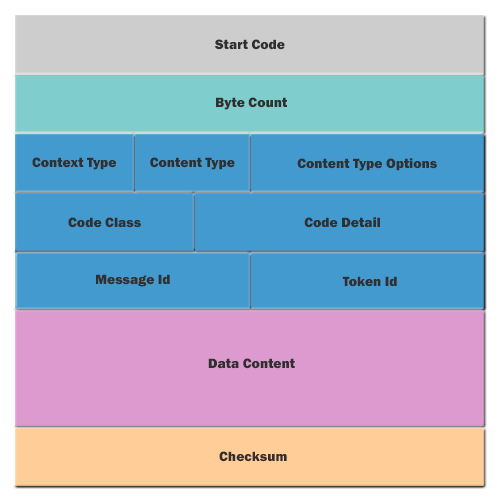
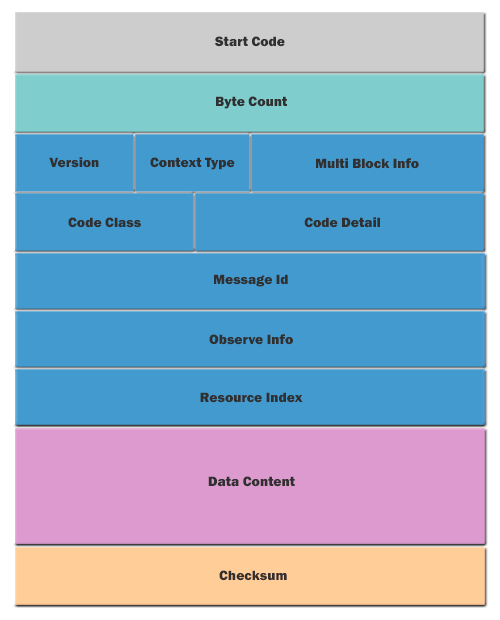
Redefined SMoS PDU

Changed region(s): [[0.03, 0.0599, 0.99, 0.988], [0.03, 0.0, 0.99, 0.0299]]

diff --git a/smos_defined.md b/smos_defined.md
@@ -8,82 +8,104 @@
 
 ###### Start Code
   * Every message begins with a colon (ASCII Hex value $3A)
+  * Byte index = 0
+  * 1 byte
 
 ###### Byte Count
-  * A 2 digit value (1 byte), counting the actual data bytes in the message.
+  * Count of payload bytes in the message
+  * Byte index = 1
+  * 1 byte
+
+###### Version
+  * Protocol version
+  * Currently always set to 1
+  * Byte index = 2
+  * Two MSB bits
 
 ###### Context Type
-* Two MSB bits of the first byte.
-* The values is defined as follow:
-  + Confirmable (0x0)
-  + Non Confirmable (0x1)
-  + Acknowledgement (0x2)
-  + Reset (0x3)
+  * The values is defined as follow:
+    + Confirmable (0x0)
+    + Non Confirmable (0x1)
+    + Acknowledgement (0x2)
+    + Reset (0x3)
+  * Byte index = 2
+  * Two bits after Version bits
 
-###### Content Type
-* Two bits following Context Type.
-* The values is defined as follow:
-  + Generic content (0x0)
-  + Bluetooth GATT content (0x1)
-  + Reserved (0x2)
-  + Reserved (0x3)
-
-###### Content Type Options
-* Four LSB bits of the first byte.
-* It's values are determined by the Content Type.
+###### Multi Block Info
+  * Indicating if message is last block of multi block message 
+  * Byte index = 2
+  * Four LSB bits
+  * First (MSB) bit of this field indicates last block flag
+  * Remaining 3 bits indicating block sequence index
+  * If last block flag is set and remaining bits are 0, indicates single block message
 
 ###### Code Class
-* Three MSB bits of the second byte.
-* The values is defined as follow:
-  + Request (0x0)
-  + Success response (0x2)
-  + Failed response, sender error (0x4)
-  + Failed response, recipient error (0x5)
+  * The values is defined as follow:
+    + Request (0x0)
+    + Success response (0x2)
+    + Failed response, sender error (0x4)
+    + Failed response, recipient error (0x5)
+  * Byte index = 3
+  * Three MSB bits
 
 ###### Code Detail
-* Five LSB bits of the second byte.
-* If code class is 0x0 and code detail is 0x0, it is an empty message.
-* If code class is 0x0 and code detail is not 0x0, then the values is defined as follow:
-  + GET, OBSERVE (0x1)
-  + POST (0x2)
-  + PUT (0x3)
-  + DELETE (0x4)
-* If code class is 0x2, then the values is defined as follow:
-  + CREATED (0x1)
-  + DELETED (0x2)
-  + VALID (0x3)
-  + CHANGED (0x4)
-  + CONTENT (0x5)
-* If code class is 0x4, then the values is defined as follow:
-  + BAD REQUEST (0x0)
-  + UNAUTHORIZED (0x1)
-  + BAD OPTION (0x2)
-  + FORBIDDEN (0x3)
-  + NOT FOUND (0x4)
-  + METHOD NOT ALLOWED (0x5)
-  + NOT ACCEPTABLE (0x6)
-  + PRECONDITION FAILED (0x12)
-  + REQUEST ENTITY TOO LARGE (0x13)
-  + UNSUPPORTED CONTENT FORMAT (0x15)
-* If code class is 0x5, then the values is defined as follow:
-  + INTERNAL SERVER ERROR (0x0)
-  + NOT IMPLEMENTED (0x1)
-  + BAD GATEWAY (0x2)
-  + SERVICE UNAVAILABLE (0x3)
-  + GATEWAY TIMEOUT (0x4)
-  + PROXYING NOT SUPPORTED (0x5)
+  * If code class is 0x0 and code detail is 0x0, it is an empty message.
+  * If code class is 0x0 and code detail is not 0x0, then the values is defined as follow:
+    + GET (0x1)
+    + POST (0x2)
+    + PUT (0x3)
+    + DELETE (0x4)
+  * If code class is 0x2, then the values is defined as follow:
+    + CREATED (0x1)
+    + DELETED (0x2)
+    + VALID (0x3)
+    + CHANGED (0x4)
+    + CONTENT (0x5)
+  * If code class is 0x4, then the values is defined as follow:
+    + BAD REQUEST (0x0)
+    + UNAUTHORIZED (0x1)
+    + BAD OPTION (0x2)
+    + FORBIDDEN (0x3)
+    + NOT FOUND (0x4)
+    + METHOD NOT ALLOWED (0x5)
+    + NOT ACCEPTABLE (0x6)
+    + PRECONDITION FAILED (0x12)
+    + REQUEST ENTITY TOO LARGE (0x13)
+    + UNSUPPORTED CONTENT FORMAT (0x15)
+  * If code class is 0x5, then the values is defined as follow:
+    + INTERNAL SERVER ERROR (0x0)
+    + NOT IMPLEMENTED (0x1)
+    + BAD GATEWAY (0x2)
+    + SERVICE UNAVAILABLE (0x3)
+    + GATEWAY TIMEOUT (0x4)
+    + PROXYING NOT SUPPORTED (0x5)
+  * Byte index = 3
+  * Five LSB bits
 
 ###### Message Id
-* Four MSB bits of the third byte.
-* Used to match messages of type Acknowledgement/Reset to messages of type Confirmable/Non-confirmable, and guard against message duplication.
+  * Used to match messages of type Acknowledgement/Reset to messages of type Confirmable/Non-confirmable, and guard against message duplication.
+  * Byte index = 4
+  * 1 byte
 
-###### Token Id
-* Four LSB bits of the third byte.
-* Used to correlate notifications with OBSERVE requests.
+###### Observe Info
+  * Indicates observe request (when code detail is GET)
+  * Indicates observe notification update (when code detail is CONTENT)
+  * Byte index = 5
+  * First (MSB) bit of this field is set if message is observe request or observe notification updates
+  * Remaining bits indicating observe notification index
+
+###### Resource Index
+  * Associates with a resource hosted by the server
+  * Server can host up to 256 resources
+  * Byte index = 6
+  * 1 byte
 
 ###### Data Content
-  * There can be 0 to 255 data bytes per message.
+  * actual payload of message
+  * Payload can be 0 to 255 bytes per message
 
 ###### Checksum
-  * This field is a one byte (2 hex digits) 2's complement checksum of the entire record.
-
+  * Used to check integrity of message
+  * This field is the 2's complement of the entire message excluding the start code
+  * Last byte of message
+  * 1 byte
